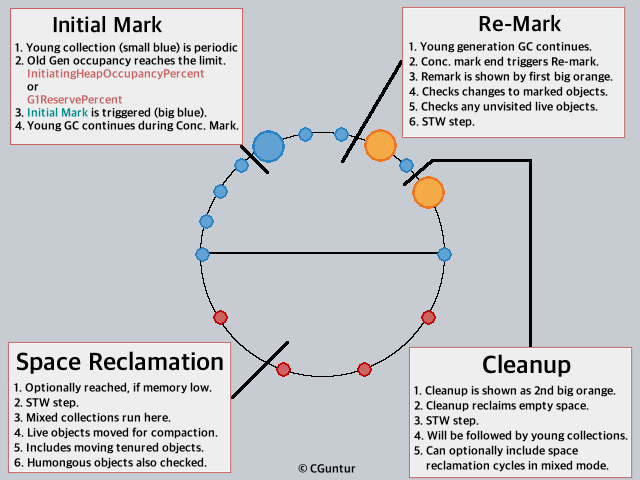
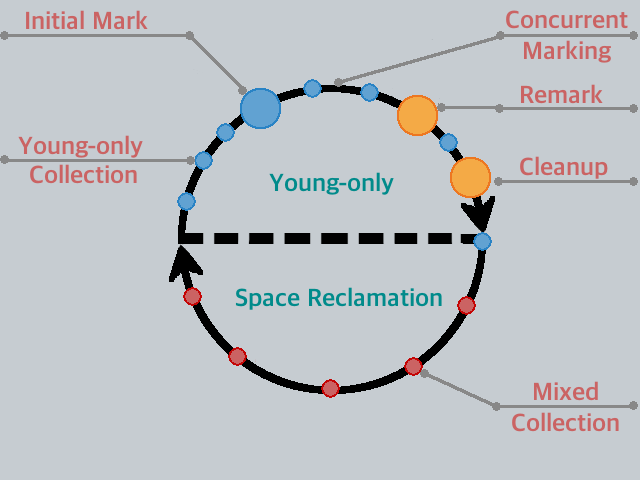
Included other team members feedback.

diff --git a/index.html b/index.html
@@ -15,7 +15,7 @@
     <meta name="viewport" content="width=device-width, initial-scale=1.0, maximum-scale=1.0, user-scalable=no">
 
     <link rel="stylesheet" href="css/reveal.css">
-    <link rel="stylesheet" href="css/theme/light.css" id="theme">
+    <link rel="stylesheet" href="css/theme/dark.css" id="theme">
 
     <script type="text/javascript" src="js/jquery.min.js"></script>
 
@@ -721,10 +721,13 @@
           <strong><em><span class="color1">Some observations</span> </em>: </strong>
           <br/>
           <ul style="font-size: 0.9em">
-            <li style="margin-top: 0.5em">Non-contiguous memory regions of <strong class="color2">equal size</strong>.</li>
-            <li style="margin-top: 0.5em">Memory is <strong class="color2">divided into ~ 2048 or more regions</strong>.</li>
+            <li style="margin-top: 0.5em">A <strong class="color2">region</strong> is a contiguous unit of memory allocation and space reclamation.</li>
+            <li style="margin-top: 0.5em">Heap is compartmentalized into virtual non-contiguous memory regions.</li>
+            <li style="margin-top: 0.5em">This compartmentalization is done by <strong class="color2">dividing the heap into ~ 2048 or more regions</strong> of <strong class="color2">equal size</strong>.</li>
             <li style="margin-top: 0.5em">The region <strong class="color2">sizes can range from 1 MB to 32 MB</strong> depending on the heap size.</li>
-            <li style="margin-top: 0.5em"><strong class="color2">Humongous objects</strong> occupy contiguous regions and are defined as size > 50% of region size.</li>
+            <li style="margin-top: 0.5em">The <strong class="color2">memory manager</strong> assigns a region as <span class="color1">free</span>, <span class="color1">eden</span>, <span class="color1">survivor</span>, <span class="color1">tenured</span> or part of a <span class="color1">humongous</span> allocation.</li>
+            <li style="margin-top: 0.5em"><strong class="color1">Humongous</strong> objects occupy contiguous regions and are defined as objects with <strong class="color2">size > 50% of region size</strong>.</li>
+            <li style="margin-top: 0.5em"><strong class="color1">Humongous</strong> objects are <strong class="color2">directly allocated in and treated similar to </strong><span class="color1">tenured</span> objects.</li>
             <li style="margin-top: 0.5em">G1 GC has a <strong class="color2">consistent pause time-target that it tries to meet</strong> (soft, real time), hence region sizes are controlled.</li>
           </ul>
           <hr/>
@@ -738,10 +741,10 @@
                     <li>Approximate region size for 2048 regions &rarr; <span class="color2">9216 MB &divide; 2048 regions = </span><strong class="color3">4.5 MB per region</strong> </li>
                     <li>Regions for factor of 2 <em class="color1">below</em> the approximate region size (= <span class="color3">4</span>) &rarr; <span class="color2">9216 &divide; 4MB = </span><strong class="color3">2304 regions</strong>.</li>
                     <li>Regions for factor of 2 <em class="color1">above</em> the approximate region size (= <span class="color3">8</span>) &rarr; <span class="color2">9216 &divide; 8MB = </span><strong class="color3">1152 regions</strong>.</li>
-                    <li>Since <strong class="color3">2304</strong> is closest to and above 2048, it is chosen as the number of regions to use.</li>
-                    <li>Each region is thus of <strong class="color3">4MB</strong> size.</li>
+                    <li>Since <strong class="color3">2304</strong> is closest to and above <span class="color3">2048</span>, it is chosen as the number of regions to use.</li>
+                    <li>Each region is thus of <strong class="color3">4</strong>MB size.</li>
                     <li>Possible to disable this auto-calculation by setting a JVM option that overrides calculating.</li>
-                    <li>Use <code>-XX:G1HeapRegionSize</code> and supply a power of 2.</li>
+                    <li>Set the flag <code>-XX:G1HeapRegionSize</code> with a numeric value (that is a power of <span class="color3">2</span>).</li>
                     <li>Watch out for <strong class="color1">Humongous</strong> objects. In this case any object <strong class="color3">2MB</strong> or above.</li>
                   </ol>
                 </span>
@@ -754,9 +757,45 @@
         </span>
       </section>
   
-      <!-- G1GC - Young Collection (Young only) -->
+      <!-- G1GC - Explanation -->
       <section>
-        <h2>G1GC - Young Collection (Young-only)</h2>
+        <h2>G1GC - Explanation</h2>
+        <span style="font-size:0.6em;text-align:left;">
+          <table width="100%">
+            <tr style="border: hidden">
+              <td width="65%" style="font-size: 0.9em; vertical-align: middle;border: hidden">
+                <span class="color1">Explanation: </span><br/>
+                <ul>
+                  <li style="margin-top: 0.5em">two distinct phases of collection.</li>
+                  <li style="margin-top: 0.5em">starts with a <span class="color1">Young-only</span> collection phase, that runs periodically.</li>
+                  <li style="margin-top: 0.5em">continues until a <em class="color2">threshold</em> is reached, which triggers an <span class="color1">Initial Mark</span>.</li>
+                  <li style="margin-top: 0.5em"><span class="color1">Initial Mark</span> adds <span class="color2">concurrent live marking</span> to <span class="color1">Young-only</span>.</li>
+                  <li style="margin-top: 0.5em"><span class="color1">Concurrent Mark</span>ing takes a while, <span class="color1">Young-only</span> collection continues along-side.</li>
+                  <li style="margin-top: 0.5em">at end of <span class="color1">Concurrent Mark</span>ing, a <span class="color1">Remark</span> is initiated.</li>
+                  <li style="margin-top: 0.5em"><span class="color1">Remark</span> finalizes marking, summarizes liveness.</li>
+                  <li style="margin-top: 0.5em"><span class="color1">Remark</span> completion triggers <span class="color1">Cleanup</span>, reclaiming empty regions.</li>
+                  <li style="margin-top: 0.5em"><span class="color1">Cleanup</span> phase is used to determine if Tenured space reclamation required.</li>
+                  <li style="margin-top: 0.5em">If heap waste percentage threshold met, a triggers a <strong class="color1">Space reclamation</strong> phase.</li>
+                  <li style="margin-top: 0.5em">A <strong class="color2">Collection set</strong> of <span class="color1">Young</span> &amp; <span class="color1">Tenured</span> regions picked for collection.</li>
+                  <li style="margin-top: 0.5em"><span class="color1">Space Reclamation</span> continues until heap waste percent threshold.</li>
+                  <li style="margin-top: 0.5em"><span class="color2">Humongous objects</span> also processed in space reclamation phase.</li>
+                </ul>
+              </td>
+              <td width="100%" style="text-align: center; vertical-align: middle; border: hidden">
+                <img src="images/G1GC_Cycle.png"/>
+              </td>
+            </tr>
+          </table>
+        </span>
+        <br/>
+        <span class="dimtext"><span style="font-size: 0.35em; display: block; text-align: center">
+        Diagram borrowed by the Oracle GC Tuning Guide: <a href="https://docs.oracle.com/javase/9/gctuning/garbage-first-garbage-collector.htm" target="_balnk">https://docs.oracle.com/javase/9/gctuning/garbage-first-garbage-collector.htm</a>
+        </span></span>
+      </section>
+      
+      <!-- G1GC - Young-Only (Survivor Promotion) -->
+      <section>
+        <h2>G1GC - Young-Only (Survivor Promotion)</h2>
         <span style="font-size:0.55em;text-align:left;">
           <strong><span class="color1">1. Young collection (Eden &amp; Survivor<sub><span style="font-size: 0.7em">F</span></sub> &rarr; Survivor<sub><span style="font-size: 0.7em">T</span> </sub>)</span>: </strong>
           <br/>
@@ -764,8 +803,8 @@
             <li>Young Collection first targets the most populated regions.</li>
             <li>Dead objects are collected and evicted.</li>
             <li>Live objects from a selected few <span class="color1">Eden</span> and <span class="color1">Survivor <em>From</em></span> regions are compacted and copied into a <span class="color1">Survivor <em>To</em></span> region.</li>
-            <li>The <span class="color2">Age</span> of live objects being moved from <span class="color1">Eden</span> is set to 1 with each execution of this GC. </li>
-            <li>The <span class="color2">Age</span> of live objects being moved from <span class="color1">Survivor <em>From</em></span> is incremented by 1 with each execution of this GC. </li>
+            <li>The <span class="color2">Age</span> of live objects being moved from <span class="color1">Eden</span> is set to <span class="color3">1</span> with each execution of this GC. </li>
+            <li>The <span class="color2">Age</span> of live objects being moved from <span class="color1">Survivor <em>From</em></span> is incremented by a <span class="color3">1</span> with each execution of this GC. </li>
           </ul>
           <p>
           <hr/>
@@ -782,9 +821,9 @@
         </span>
       </section>
   
-      <!-- G1GC - Young Collection (Survivor) -->
+      <!-- G1GC - Young-Only (Tenured Promotion) -->
       <section>
-        <h2>G1GC - Young Collection (Tenured Promotion)</h2>
+        <h2>G1GC - Young-Only (Tenured Promotion)</h2>
         <span style="font-size:0.55em;text-align:left;">
           <strong><span class="color1">2. Young collection (Survivor &rarr; Tenured)</span>: </strong>
           <br/>
@@ -815,9 +854,11 @@
           <strong><span class="color1">3. Concurrent Marking</span>: </strong>
           <br/>
           <ul style="font-size: 0.9em">
+            <li>Triggered when certain percentage of heap is occupied <span class="dimtext"> - or - </span> when the <span class="color1">Survivor <em>To</em></span> minimum creation space threshold is reached.</li>
             <li>Concurrent marking begins with a <strong class="color2">Snapshot-At-The-Beginning (SATB)</strong> (<span class="dimtext">conservative garbage collection</span>).</li>
-            <li>If more objects move to tenured after the snapshot, all such objects are <em class="color2">considered live</em>, irrespective of references.</li>
-            <li>Once concurrent marking completes, a young collection is triggered.</li>
+            <li>If more objects move to <span class="color1">Tenured</span> after the snapshot, all such objects are <em class="color2">considered live</em>, and not checked for references.</li>
+            <li>The completion of the concurrent marking triggers a <strong class="color2">Remark</strong> and a subsequent <strong class="color2">Cleanup</strong> phase.</li>
+            <li>Young-only collection continues during <span class="color1">concurrent marking</span>, <span class="color1">remark</span> and <span class="color1">cleanup</span> phases.</li>
           </ul>
           <p>
           <img src="images/G1_3_ConcurrentMarking.png" width="55%"/>
@@ -838,8 +879,17 @@
             <li>After each collection, the liveness of the tenured region is re-evaluated.</li>
             <li>If the reclaimable space is still greater than the <code>-XX:G1HeapWastePercent</code> (default = <span class="color3">5</span>), mixed collections will continue.</li>
           </ul>
-          <p>
-          <img src="images/G1_4_MixedCollection.gif" width="55%"/>
+          <hr/>
+          <table width="100%">
+            <tr style="border: hidden">
+              <td width="50%" style="text-align: center; vertical-align: middle; border: hidden">
+                <img src="images/G1_4_MixedCollectionBefore.png" width="100%"/>
+              </td>
+              <td width="50%" style="text-align: center; vertical-align: middle; border: hidden">
+                <img src="images/G1_4_MixedCollectionAfter.png" width="100%"/>
+              </td>
+            </tr>
+          </table>
         </span>
       </section>
   
@@ -1002,35 +1052,35 @@
         </thead>
         <tbody>
           <tr>
-            <td style="text-align: center; vertical-align: middle"><strong>Serial GC</strong></td>
+            <td style="text-align: center; vertical-align: middle"><strong class="color1">Serial GC</strong></td>
             <td style="text-align: center; vertical-align: middle">Serial</td>
             <td style="text-align: center; vertical-align: middle">Serial</td>
             <td style="text-align: left; vertical-align: middle"><code>-XX:+UseSerialGC</code></td>
           </tr>
         
           <tr>
-            <td style="text-align: center; vertical-align: middle"><strong>Parallel GC</strong></td>
+            <td style="text-align: center; vertical-align: middle"><strong class="color1">Parallel GC</strong></td>
             <td style="text-align: center; vertical-align: middle">Parallel <span style="font-size: 0.6em">Scavenge</span></td>
             <td style="text-align: center; vertical-align: middle">Parallel</td>
             <td style="text-align: left; vertical-align: middle"><code>-XX:+UseParallelGC -XX:+UseParallelOldGC</code></td>
           </tr>
         
           <tr>
-            <td style="text-align: center; vertical-align: middle"><strong>CMS GC</strong></td>
-            <td style="text-align: center; vertical-align: middle">Parallel <span style="font-size: 0.6em">New</span></td>
-            <td style="text-align: center; vertical-align: middle">CMS</td>
-            <td style="text-align: left; vertical-align: middle"><code>-XX:+UseParNewGC -XX:+UseConcMarkSweepGC</code></td>
+            <td style="text-align: center; vertical-align: middle"><strong class="dimtext">CMS GC</strong></td>
+            <td style="text-align: center; vertical-align: middle; text-decoration: line-through;">Parallel <span style="font-size: 0.6em">New</span></td>
+            <td style="text-align: center; vertical-align: middle; text-decoration: line-through;">CMS</td>
+            <td style="text-align: left; vertical-align: middle"><code class="dimtext">-XX:+UseParNewGC -XX:+UseConcMarkSweepGC</code></td>
           </tr>
         
           <tr>
-            <td style="text-align: center; vertical-align: middle"><strong>G1 GC</strong></td>
+            <td style="text-align: center; vertical-align: middle"><strong class="color1">G1 GC</strong></td>
             <td style="text-align: center; vertical-align: middle" colspan="2">G1GC</td>
             <td style="text-align: left; vertical-align: middle"><code>-XX:+UseG1GC</code></td>
           </tr>
         
         </tbody>
       </table>
-
+      <span style="font-size:0.7em;text-align:center;"><strong class="color2">NOTE</strong>: CMS is deprecated as of Java 9.</span>
       <br/>
       <span style="font-size:0.6em;text-align:left;">Differences in collectors:</span><br/>
       <table style="font-size: 0.55em;text-align: left;width: 90%">
@@ -1047,7 +1097,7 @@
   
         <tbody>
         <tr>
-          <td style="text-align: center; vertical-align: middle"><strong>Serial GC</strong></td>
+          <td style="text-align: center; vertical-align: middle"><strong class="color1">Serial GC</strong></td>
           <td style="text-align: center; vertical-align: middle">&nbsp - &nbsp;</td>
           <td style="text-align: center; vertical-align: middle">&nbsp - &nbsp;</td>
           <td style="text-align: center; vertical-align: middle">Serial</td>
@@ -1056,7 +1106,7 @@
         </tr>
   
         <tr>
-          <td style="text-align: center; vertical-align: middle"><strong>Parallel GC</strong></td>
+          <td style="text-align: center; vertical-align: middle"><strong class="color1">Parallel GC</strong></td>
           <td style="text-align: center; vertical-align: middle">Yes</td>
           <td style="text-align: center; vertical-align: middle">&nbsp - &nbsp;</td>
           <td style="text-align: center; vertical-align: middle">Parallel</td>
@@ -1065,16 +1115,16 @@
         </tr>
   
         <tr>
-          <td style="text-align: center; vertical-align: middle"><strong>CMS GC</strong></td>
-          <td style="text-align: center; vertical-align: middle">Yes</td>
-          <td style="text-align: center; vertical-align: middle">Yes</td>
-          <td style="text-align: center; vertical-align: middle">Parallel</td>
-          <td style="text-align: center; vertical-align: middle">Parallel & Conc.</td>
-          <td style="text-align: center; vertical-align: middle">Low Pause</td>
+          <td style="text-align: center; vertical-align: middle"><strong class="dimtext">CMS GC</strong></td>
+          <td style="text-align: center; vertical-align: middle; text-decoration: line-through;"><span class="dimtext">Yes</span></td>
+          <td style="text-align: center; vertical-align: middle; text-decoration: line-through;"><span class="dimtext">Yes</span></td>
+          <td style="text-align: center; vertical-align: middle; text-decoration: line-through;"><span class="dimtext">Parallel</span></td>
+          <td style="text-align: center; vertical-align: middle; text-decoration: line-through;"><span class="dimtext">Parallel & Conc.</span></td>
+          <td style="text-align: center; vertical-align: middle; text-decoration: line-through;"><span class="dimtext">Low Pause</span></td>
         </tr>
   
         <tr>
-          <td style="text-align: center; vertical-align: middle"><strong>G1 GC</strong></td>
+          <td style="text-align: center; vertical-align: middle"><strong class="color1">G1 GC</strong></td>
           <td style="text-align: center; vertical-align: middle">Yes</td>
           <td style="text-align: center; vertical-align: middle">Yes</td>
           <td style="text-align: center; vertical-align: middle">Parallel</td>
@@ -1222,6 +1272,32 @@
         <span style="font-size:0.65em;text-align:left;">
           In this section some tuning options for common issues are discussed.
         </span>
+        <br/>
+        <span style="font-size:0.55em;text-align:left;">
+          <strong class="color1">Before we get there &hellip;</strong><br/>
+          <span>JVM optimizes for classes of devices. A <strong class="color2">server-class machine</strong> is defined as one with:</span>
+          <br/>
+          <ul style="font-size: 0.9em">
+            <li>two or more physical processors</li>
+            <li>two or more GB of physical memory</li>
+          </ul>
+          <br/>
+          <strong><span class="color1">Some defaults for a server-class machine</span>: </strong>
+          <br/>
+          <ol style="font-size: 0.9em">
+            <li>Default garbage collector = <strong class="color2">G1GC</strong>.</li>
+            <li><span class="color2">Initial heap size</span> defaults to <span class="color3">1/64th</span> of physical memory.</li>
+            <li><span class="color2">Maximum heap size</span> defaults to <span class="color3">1/4th</span> of physical memory.</li>
+            <li>Default tiered compiler with <strong class="color2">C1</strong> and <strong class="color2">C2</strong> code caches.
+              <ul>
+                <li><span class="color2">C1</span> pre-compiles and optimizes non-profilable (non-dynamic) code.</li>
+                <li><span class="color2">C2</span> profiles code and defers optimizations.</li>
+              </ul>
+            </li>
+          </ol>
+          <br/>
+          JVM uses <em class="color1">ergonomics</em> to determine behaviour and environment-based heuristics to improve performance.
+        </span>
       </section>
   
       <!-- G1GC - Performance definitions -->
@@ -1253,9 +1329,13 @@
             <li><span class="color3">A</span><span class="color2">nalyze</span> - determine what needs to be done to fix issues.</li>
             <li><span class="color3">T</span><span class="color2">une</span> - set the right parameters for sizes, ages, threads etc.</li>
             <li><span class="color3">H</span><span class="color2">ammer</span> - test out each set of parameters thoroughly.</li>
-            <li><span class="color3">Y</span><span class="color2">ippee</span> - beer time.</li>
+            <li><span class="color3">Y</span><span class="color2">ippee</span> - beer time. 🍻</li>
           </ol>
         </span>
+        <hr/>
+        <span style="font-size:0.6em;text-align:left;"><strong class="color1">Amdahl&rsquor;s Law:</strong><p/><span>If you decide to increase the number of parallel threads to gain performance, remember that</span>: <br/><em class="dimtext" style="font-size:0.8em;text-align:left;">The nature of this overhead (in parallelism) appears to be sequential so that it is unlikely to be amenable to parallel processing techniques.</em></span>
+        <br/>
+        <span style="font-size:0.6em;text-align:left;"><strong class="color3">Chandra&rsquor;s Law:</strong><br/><em class="dimtext" style="font-size:0.9em;text-align:left;">A person cannot read a book three times faster if they get three copies of the book.</em></span>
       </section>
       
       <!-- G1GC - Frequent Full GC< -->
@@ -1315,10 +1395,10 @@
         <span style="font-size:0.6em;text-align:left;">
           <strong class="color2">Mixed Collections seem to take too long</strong> <br/>
           <ul style="font-size: 0.9em"><br/>
-            <li>Determine which generation is taking the time (Set <span class="color2">gc+ergo+cset=trace</span> in logging.</li><br/>
+            <li>Determine which generation is taking the time (Set <code class="color2">gc+ergo+cset=trace</code> in logging).</li><br/>
             <li>The logs will then show <em class="color2">predicted young region</em> and <em class="color2">predicted old region</em> times.</li><br/>
             <li>Spread reclamations to more mixed collections via <code>-XX:G1MixedGCCountTarget</code>.</li><br/>
-            <li>Limit the threshold of collecting regions with high occupancy by live objects via <br/><code>-XX:G1MixedGCLiveThresholdPercent</code>.</li><br/>
+            <li>Limit threshold of collecting regions with high live occupancy: <code style="font-size: 0.9em">-XX:G1MixedGCLiveThresholdPercent</code>.</li><br/>
             <li>Limit space reclamation in high occupancy regions via <code>-XX:G1HeapWastePercent</code>.</li><br/>
           </ul>
         </span>

diff --git a/css/theme/dark.css b/css/theme/dark.css
@@ -407,6 +407,10 @@ body {
     color: #777777;
 }
 
+.reveal .dimtext {
+    color: #777777;
+}
+
 .reveal .slide-number {
     z-index: 0;
     background-color: transparent;

diff --git a/css/theme/light.css b/css/theme/light.css
@@ -407,6 +407,10 @@ body {
     color: #999999;
 }
 
+.reveal .dimtext {
+    color: #999999;
+}
+
 .reveal .slide-number {
     z-index: 0;
     background-color: transparent;

diff --git a/css/theme/medium.css b/css/theme/medium.css
@@ -407,6 +407,10 @@ body {
     color: #a7a6b2;
 }
 
+.reveal .dimtext {
+    color: #a7a6b2;
+}
+
 .reveal .slide-number {
     z-index: 0;
     background-color: transparent;
